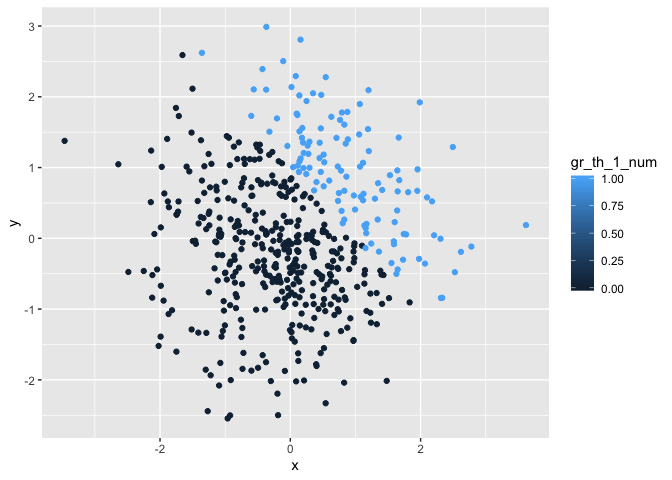
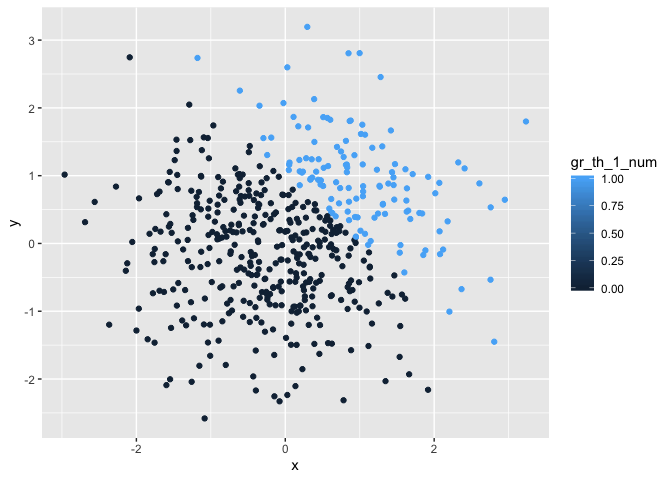
added code to set seed to ensure reproducibility

diff --git a/p8105_hw1_lk2761.md b/p8105_hw1_lk2761.md
@@ -24,13 +24,13 @@ Now I will take the mean of each variable in the data
 mean(pull(sample_df, sample))
 ```
 
-    ## [1] 0.6353604
+    ## [1] -0.04588
 
 ``` r
 mean(pull(sample_df, gr_th_0)) 
 ```
 
-    ## [1] 0.375
+    ## [1] 0.25
 
 ``` r
 mean(pull(sample_df, vec_char_8))
@@ -98,8 +98,7 @@ gr_th_0_numeric = as.numeric(pull(sample_df, gr_th_0))
 gr_th_0_numeric*pull(sample_df, sample)
 ```
 
-    ## [1] 0.0000000 0.9978641 0.0000000 0.0000000 3.2521110 2.1068590 0.0000000
-    ## [8] 0.0000000
+    ## [1] 1.012828 0.000000 0.000000 0.000000 0.000000 0.000000 1.129448 0.000000
 
 ``` r
 gr_th_0_factor = as.factor(pull(sample_df, gr_th_0))
@@ -117,8 +116,8 @@ gr_th_0_numeric_2 = as.numeric(gr_th_0_factor_2)
 gr_th_0_numeric_2*pull(sample_df, sample)
 ```
 
-    ## [1] -0.12329533  1.99572821 -0.07037989 -0.77433163  6.50422194  4.21371799
-    ## [7] -0.20911173 -0.09683220
+    ## [1]  2.0256560 -0.5879194 -0.5658592 -0.6593426 -0.3751442 -0.1893268
+    ## [7]  2.2588965 -0.1317239
 
 ## Problem 2
 
@@ -138,11 +137,11 @@ plot_df = tibble(
 
 The size of the dataset is 500 by 5.
 
-The mean of x is -0.0257332.
+The mean of x is 0.0175149.
 
-The median of x is 0.0095886.
+The median of x is 0.0639242.
 
-The standard deviation of x is 1.0017501.
+The standard deviation of x is 1.0272107.
 
 This code chunk makes a scatterplot of y vs. x. The first scatterplot
 consists of color points using the logical variable, **gr\_th\_1**,
